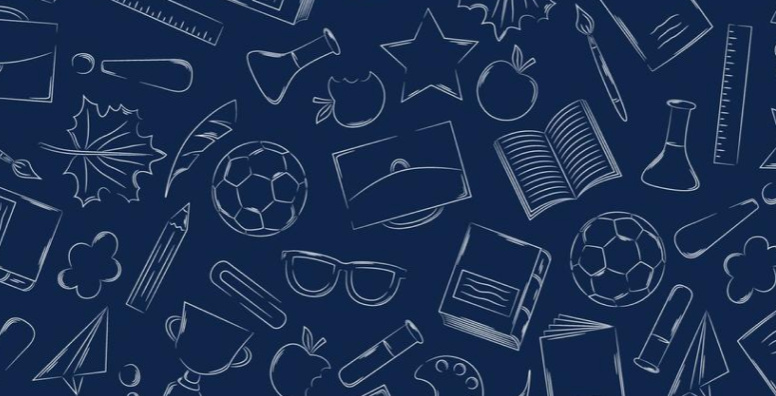
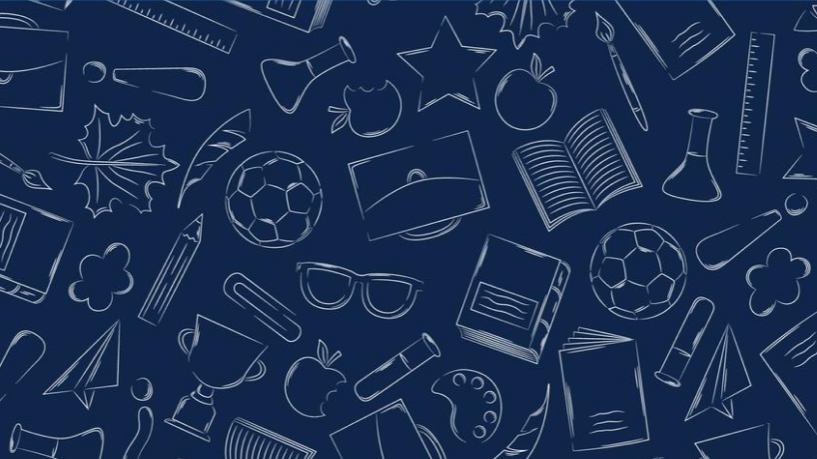
Made few updates

diff --git a/style.css b/style.css
@@ -118,6 +118,7 @@ body {
     padding: 10px 20px 70px;
 
     position: relative;
+
 }
 .hero-section::before {
     content: "";
@@ -260,6 +261,10 @@ body {
 
     position: relative;
     overflow: hidden;
+
+    
+    border-bottom-left-radius: 50% 50px;
+    border-bottom-right-radius: 50% 50px;
 }
 
 .about-text {
@@ -270,6 +275,7 @@ body {
     padding-left: 28px;
 
     transform: translateX(-24px);
+
 }
 
 .about-text h2 {
@@ -294,7 +300,12 @@ body {
 
 .process-section {
     width: 100%;
-    background: #0b2f50;
+    background:
+        linear-gradient(
+            rgba(17, 53, 89, 0.90),
+            rgba(17, 53, 89, 0.93)
+        ),
+        url("images/bg-pattern.png");
 
     text-align: center;
 
@@ -401,12 +412,14 @@ body {
     text-wrap: balance;
 }
 
-/* FAQ */
 .faq-section {
     width: 100%;
     background: #11395e;
 
     padding: 85px 8% 95px;
+
+    border-top-left-radius: 50% 50px;
+    border-top-right-radius: 50% 50px;
 }
 
 .faq-section h2 {

diff --git a/index.html b/index.html
@@ -136,7 +136,7 @@
         </div>
 
     </section>
-
+    
     <section class="faq-section" id="faq">
 
         <h2>FAQ's</h2>